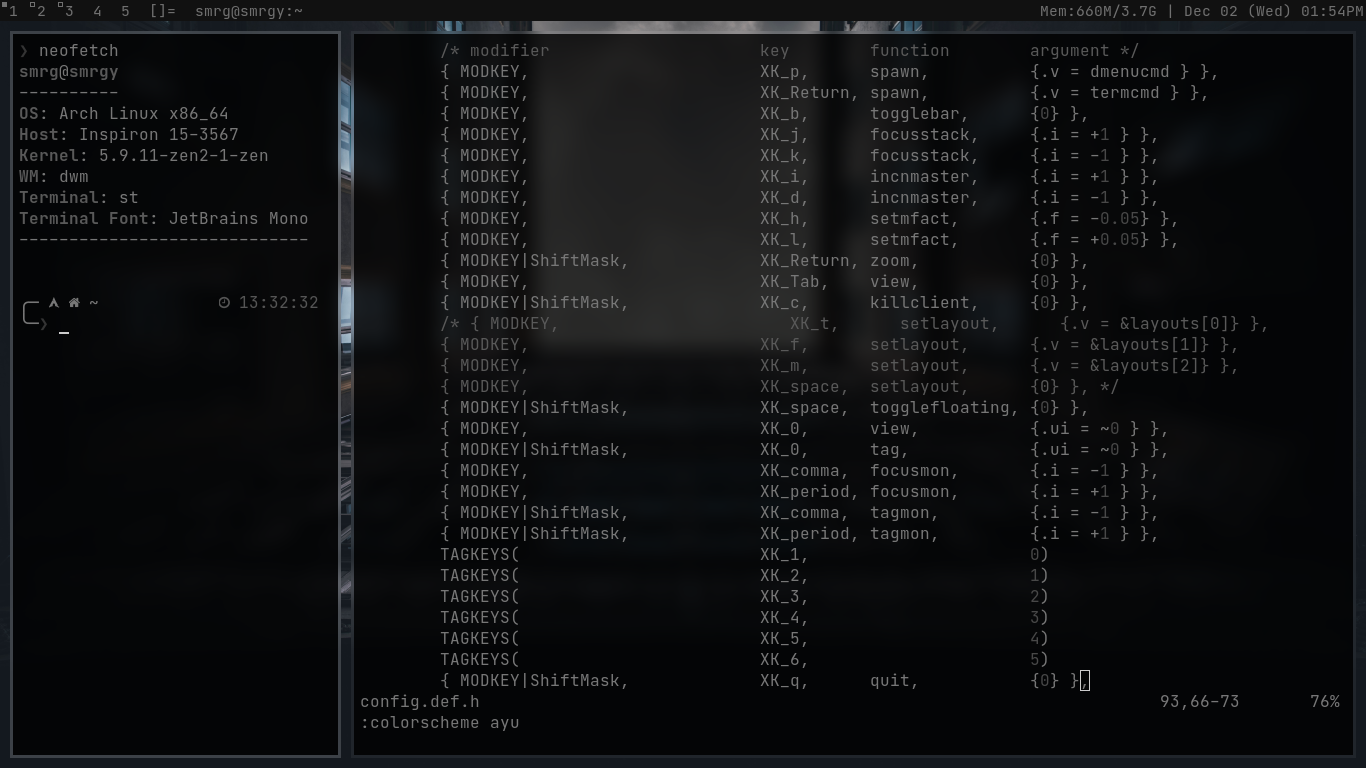
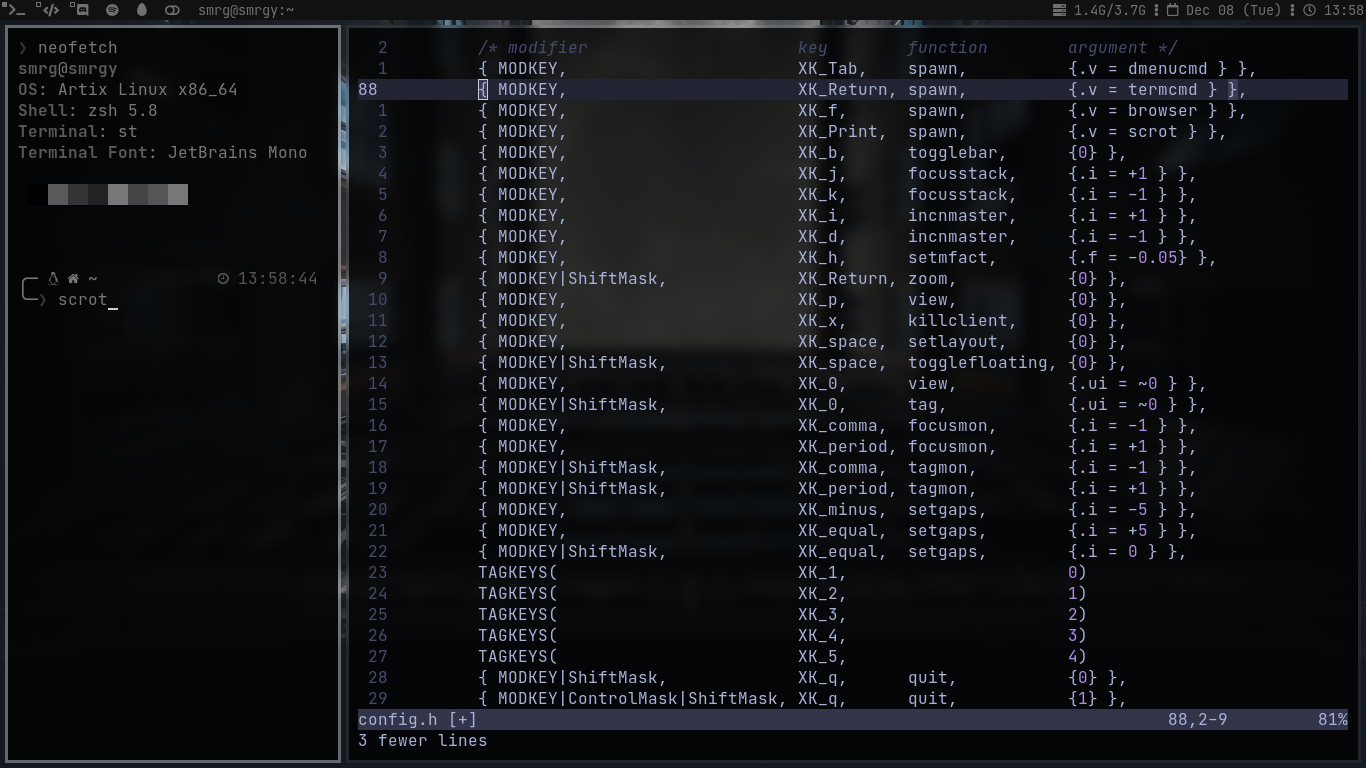
Updated to new preview pic

Changed region(s): [[0.0, 0.0, 1.0, 1.0], [0.1537, 0.3438, 0.2152, 0.4062]]

diff --git a/config.h b/config.h
@@ -98,9 +98,6 @@ static Key keys[] = {
 	{ MODKEY|ShiftMask,             XK_Return, zoom,           {0} },
 	{ MODKEY,                       XK_p,      view,           {0} },
 	{ MODKEY,             		XK_x,      killclient,     {0} },
-	/* { MODKEY,                       XK_t,      setlayout,      {.v = &layouts[0]} },
-	{ MODKEY,                       XK_f,      setlayout,      {.v = &layouts[1]} },
-	{ MODKEY,                       XK_m,      setlayout,      {.v = &layouts[2]} }, */
 	{ MODKEY,                       XK_space,  setlayout,      {0} },
 	{ MODKEY|ShiftMask,             XK_space,  togglefloating, {0} },
 	{ MODKEY,                       XK_0,      view,           {.ui = ~0 } },
